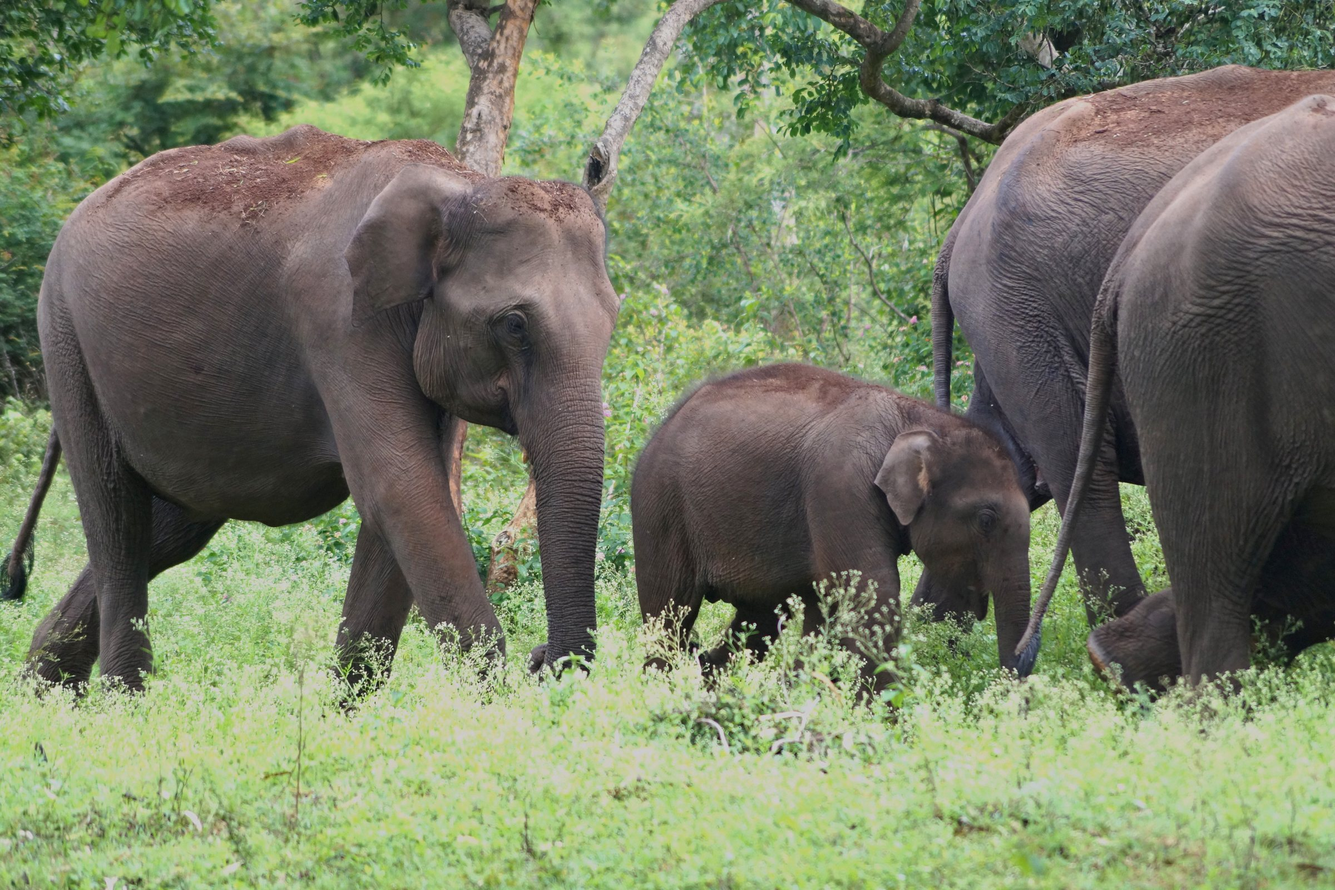
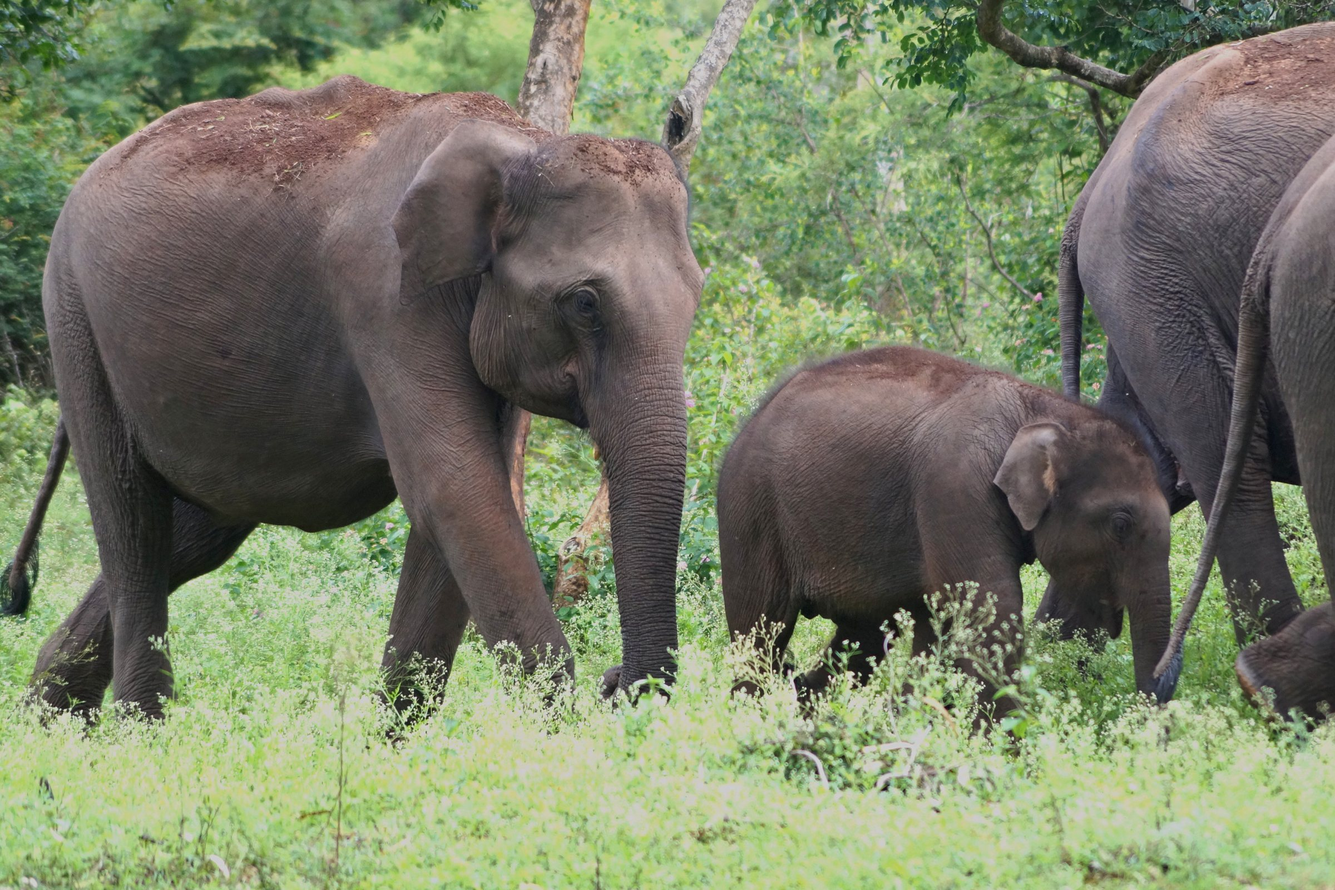
Lens: Masinagudi wildlife + rule-of-thirds recrops
Adds gaur, vultures (flock and wings-spread), tusker, peacocks, wild boar and a
deer/boar standoff from the Sony set. Recropped off-centre frames so subjects sit
on thirds intersections with lead room in the direction they face.

diff --git a/src/lib/lens.ts b/src/lib/lens.ts
@@ -97,35 +97,43 @@ export const services = [
 export const gear = ["GoPro HERO9 Black", "Sony α58", "SJCAM 4K", "Phone (Samsung / OnePlus)", "Edit: DaVinci Resolve, ffmpeg, custom grading"];
 
 export const photos: LensPhoto[] = [
-  { slug: "elephants-dawn", title: "Dawn crossing", place: "Dubare, Karnataka", date: "2017", cat: "wildlife", w: 2400, h: 1600, selected: 1 },
-  { slug: "mahout-backlight", title: "Morning bath", place: "Dubare, Karnataka", date: "2017", cat: "wildlife", w: 1919, h: 2400, selected: 4 },
+  { slug: "elephants-dawn", title: "Dawn crossing", place: "Dubare, Karnataka", date: "2017", cat: "wildlife", w: 2400, h: 1600, selected: 2 },
+  { slug: "mahout-backlight", title: "Morning bath", place: "Dubare, Karnataka", date: "2017", cat: "wildlife", w: 1919, h: 2400, selected: 6 },
   { slug: "trunk-silhouette", title: "Trunk", place: "Dubare, Karnataka", date: "2017", cat: "wildlife", w: 2400, h: 1600 },
   { slug: "cormorant-snag", title: "Lookout", place: "Dubare, Karnataka", date: "2017", cat: "wildlife", w: 1919, h: 2400 },
-  { slug: "vine-snake", title: "Vine snake", place: "Dandeli, Karnataka", date: "Oct 2018", cat: "wildlife", w: 1840, h: 2300, selected: 0 },
+  { slug: "vine-snake", title: "Vine snake", place: "Dandeli, Karnataka", date: "Oct 2018", cat: "wildlife", w: 1601, h: 2001, selected: 0 },
   { slug: "spotted-deer", title: "Spotted deer", place: "Dandeli, Karnataka", date: "Oct 2018", cat: "wildlife", w: 2400, h: 1600 },
   { slug: "golden-orb", title: "Golden orb weaver", place: "Western Ghats", date: "Sep 2018", cat: "macro", w: 1920, h: 2400 },
   { slug: "grass-sun", title: "Last light", place: "Dandeli, Karnataka", date: "Oct 2018", cat: "landscape", w: 2400, h: 1600 },
-  { slug: "dudhsagar-tunnel", title: "Dudhsagar through the tunnel", place: "Goa\u2013Karnataka border", date: "Oct 2018", cat: "landscape", w: 1919, h: 2400, selected: 11 },
-  { slug: "lotus-mahal-arches", title: "Arches, Lotus Mahal", place: "Hampi", date: "Jul 2019", cat: "architecture", w: 1920, h: 2400, selected: 3 },
+  { slug: "dudhsagar-tunnel", title: "Dudhsagar through the tunnel", place: "Goa–Karnataka border", date: "Oct 2018", cat: "landscape", w: 1919, h: 2400, selected: 15 },
+  { slug: "lotus-mahal-arches", title: "Arches, Lotus Mahal", place: "Hampi", date: "Jul 2019", cat: "architecture", w: 1920, h: 2400, selected: 5 },
   { slug: "stepped-tank", title: "Stepped tank", place: "Hampi", date: "Jul 2019", cat: "architecture", w: 2400, h: 1600 },
   { slug: "elephant-stables", title: "Elephant stables", place: "Hampi", date: "Jul 2019", cat: "architecture", w: 2400, h: 1349 },
-  { slug: "wave-silhouette", title: "Silver sea", place: "Mangaluru", date: "Aug 2019", cat: "seascape", w: 2400, h: 1600, selected: 7 },
+  { slug: "wave-silhouette", title: "Silver sea", place: "Mangaluru", date: "Aug 2019", cat: "seascape", w: 2400, h: 1600, selected: 10 },
   { slug: "diya", title: "Diya", place: "Karnataka", date: "Dec 2014", cat: "macro", w: 1920, h: 2400 },
-  { slug: "peacock-fan", title: "Display", place: "Jogimatti", date: "2015", cat: "wildlife", w: 1920, h: 2400, selected: 8 },
+  { slug: "peacock-fan", title: "Display", place: "Jogimatti", date: "2015", cat: "wildlife", w: 1920, h: 2400, selected: 11 },
   { slug: "peacock-ooty", title: "Peacock", place: "Ooty", date: "2013", cat: "wildlife", w: 1878, h: 2348 },
   { slug: "elephant-herd", title: "The herd", place: "Masinagudi", date: "Jul 2022", cat: "wildlife", w: 2400, h: 1600 },
-  { slug: "yana-spires", title: "Yana", place: "Uttara Kannada", date: "Nov 2020", cat: "landscape", w: 1920, h: 2400, selected: 10 },
-  { slug: "sea-cave-window", title: "Window", place: "Andaman Islands", date: "2023", cat: "adventure", w: 1920, h: 2400, selected: 2 },
-  { slug: "natural-bridge", title: "Natural Bridge", place: "Neil Island, Andaman", date: "Apr 2023", cat: "seascape", w: 1920, h: 2400, selected: 5 },
-  { slug: "tidepools", title: "Tidepools", place: "Andaman Islands", date: "May 2023", cat: "seascape", w: 2400, h: 1600 },
+  { slug: "yana-spires", title: "Yana", place: "Uttara Kannada", date: "Nov 2020", cat: "landscape", w: 1920, h: 2400, selected: 14 },
+  { slug: "sea-cave-window", title: "Window", place: "Andaman Islands", date: "2023", cat: "adventure", w: 1920, h: 2400, selected: 3 },
+  { slug: "natural-bridge", title: "Natural Bridge", place: "Neil Island, Andaman", date: "Apr 2023", cat: "seascape", w: 1920, h: 2400, selected: 7 },
+  { slug: "tidepools", title: "Tidepools", place: "Andaman Islands", date: "May 2023", cat: "seascape", w: 2271, h: 1514 },
   { slug: "mangrove", title: "Mangrove", place: "Andaman Islands", date: "Apr 2022", cat: "seascape", w: 2400, h: 1600 },
-  { slug: "trees-in-the-tide", title: "Trees in the tide", place: "Andaman Islands", date: "Apr 2022", cat: "seascape", w: 2400, h: 1350, selected: 9 },
+  { slug: "trees-in-the-tide", title: "Trees in the tide", place: "Andaman Islands", date: "Apr 2022", cat: "seascape", w: 2400, h: 1350, selected: 12 },
   { slug: "forest-mirror", title: "Forest mirror", place: "Andaman Islands", date: "Apr 2022", cat: "landscape", w: 2400, h: 1350 },
   { slug: "valparai-dusk", title: "Valley at dusk", place: "Valparai", date: "Nov 2023", cat: "landscape", w: 2400, h: 1600 },
-  { slug: "clownfish", title: "Clownfish", place: "Andaman Islands", date: "2023", cat: "underwater", w: 1920, h: 2400, selected: 6 },
+  { slug: "clownfish", title: "Clownfish", place: "Andaman Islands", date: "2023", cat: "underwater", w: 1920, h: 2400, selected: 9 },
   { slug: "wake", title: "Wake", place: "Andaman Sea", date: "Apr 2022", cat: "seascape", w: 1459, h: 1824 },
   { slug: "palm-road", title: "Palm road", place: "Goa", date: "Oct 2021", cat: "landscape", w: 1504, h: 1880 },
   { slug: "toward-the-sun", title: "Toward the sun", place: "Gokarna", date: "Jan 2022", cat: "seascape", w: 2400, h: 1600 },
+  { slug: "gaur", title: "Gaur", place: "Masinagudi, Nilgiris", date: "Jul 2022", cat: "wildlife", w: 2400, h: 1599, selected: 1 },
+  { slug: "vulture-flock", title: "The gathering", place: "Masinagudi, Nilgiris", date: "Jul 2022", cat: "wildlife", w: 2400, h: 1350 },
+  { slug: "vultures-wings", title: "Vultures", place: "Masinagudi, Nilgiris", date: "Jul 2022", cat: "wildlife", w: 2400, h: 1600, selected: 4 },
+  { slug: "tusker", title: "Tusker", place: "Masinagudi, Nilgiris", date: "Jul 2022", cat: "wildlife", w: 1921, h: 2400, selected: 8 },
+  { slug: "peacock-train", title: "Train", place: "Masinagudi, Nilgiris", date: "Jul 2022", cat: "wildlife", w: 2400, h: 1600 },
+  { slug: "peacock-display", title: "Display", place: "Masinagudi, Nilgiris", date: "Jul 2022", cat: "wildlife", w: 1716, h: 2144 },
+  { slug: "deer-and-boar", title: "Standoff", place: "Masinagudi, Nilgiris", date: "Jul 2022", cat: "wildlife", w: 2400, h: 1600, selected: 13 },
+  { slug: "wild-boar", title: "Wild boar", place: "Masinagudi, Nilgiris", date: "Jul 2022", cat: "wildlife", w: 2026, h: 1350 },
 ];
 
 export const selectedPhotos = photos
